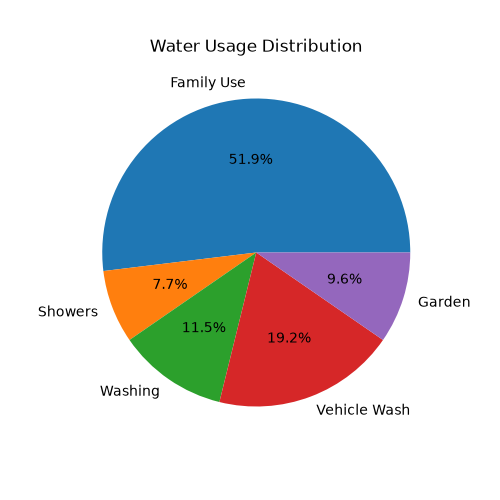
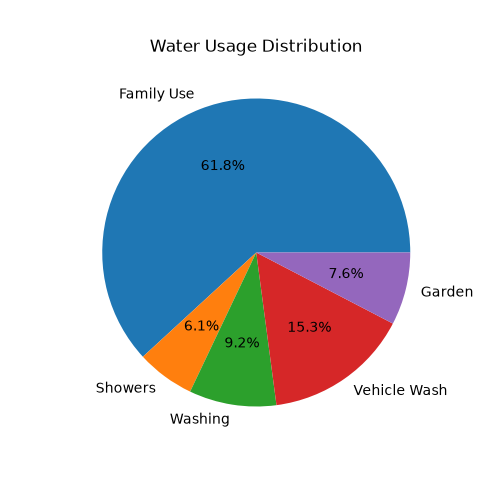
Added efficiency grade feature

diff --git a/app.py b/app.py
@@ -79,13 +79,21 @@ def home():
             status = "High Water Consumption"
             color = "red"
 
+        if water_usage < 500:
+            grade = "A"
+        elif water_usage < 1000:
+            grade = "B"
+        else:
+            grade = "C"
+
         result = {
             "usage": water_usage,
             "status": status,
             "monthly_savings": monthly_savings,
             "color": color,
             "score": score,
-            "recommendations": recommendations
+            "recommendations": recommendations,
+            "grade": grade,
         }
 
     return render_template("index.html", result=result)